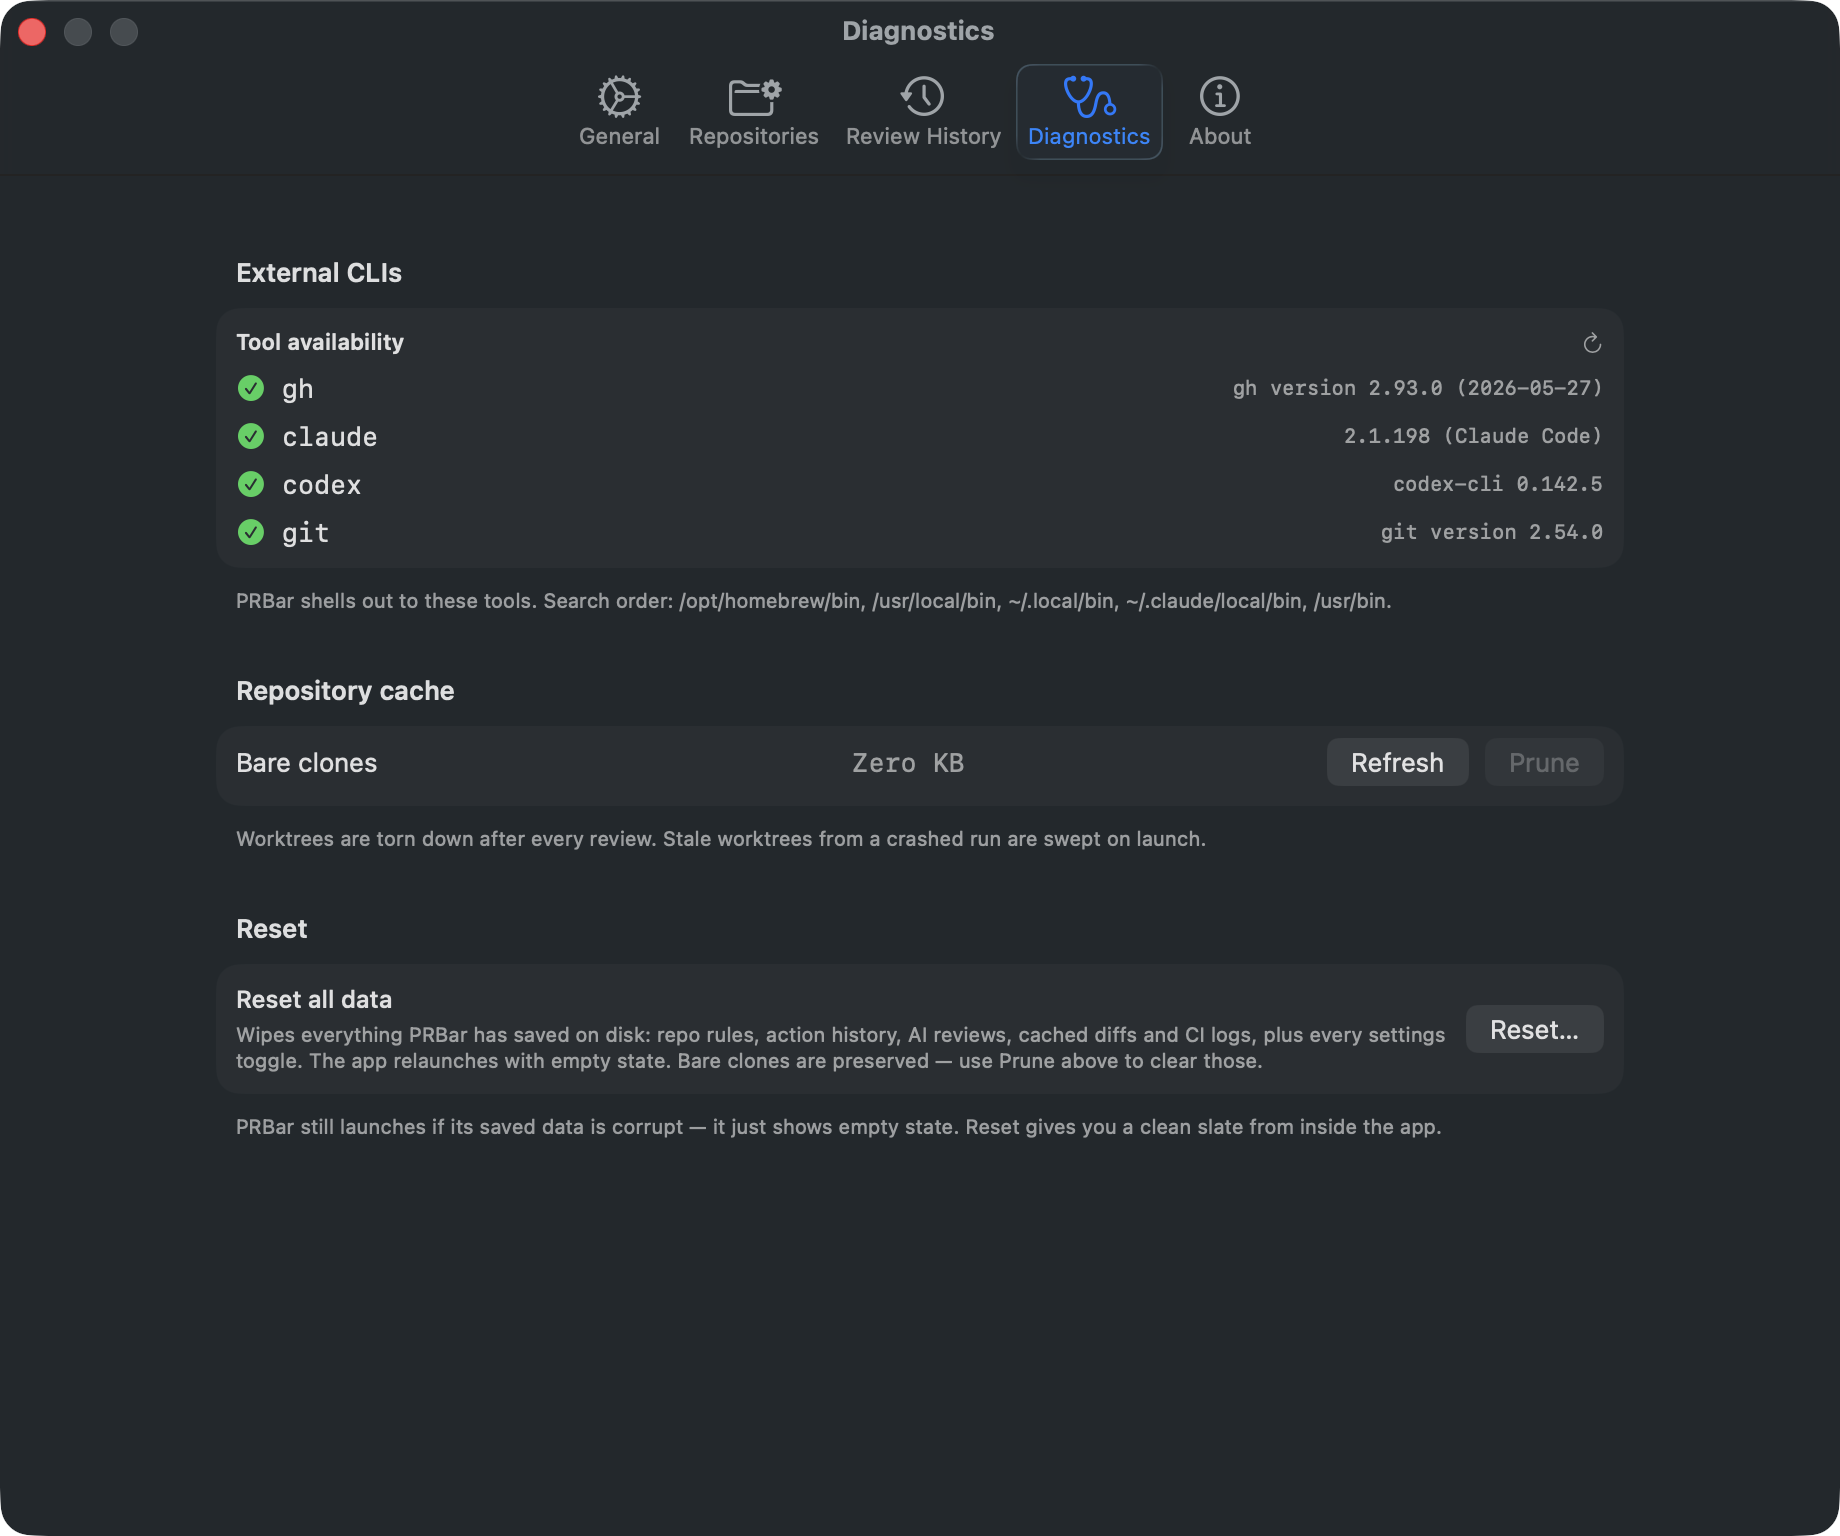
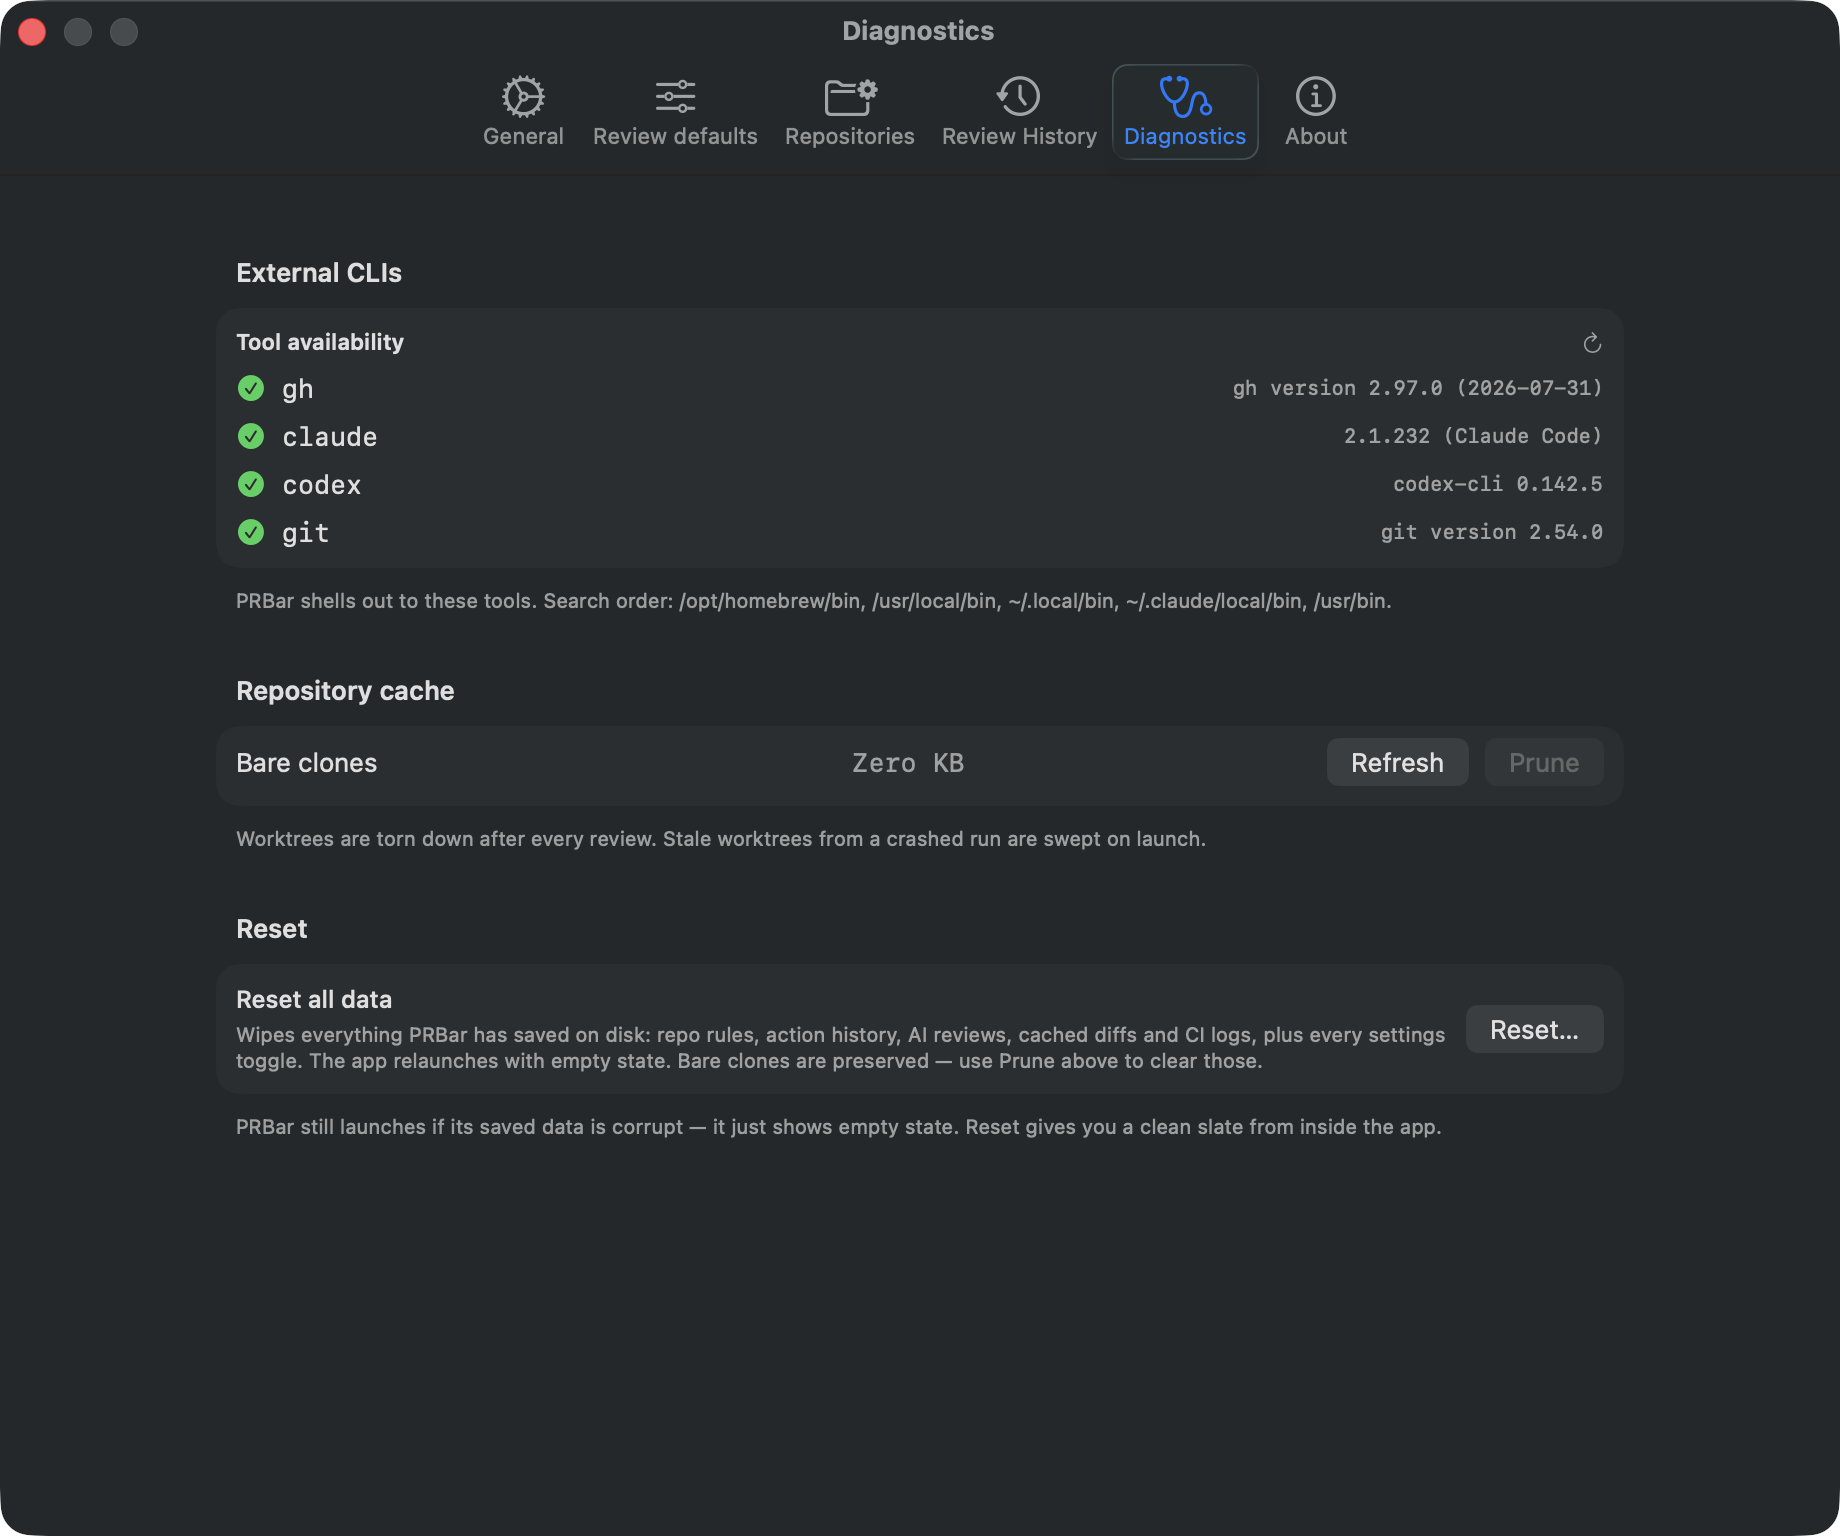
docs: regenerate settings screenshots for the new tab
Every settings shot picks up the Review defaults tab in its tab bar,
so all three existing ones are recaptured alongside it. Diagnostics
also now shows codex's real version instead of "(no --version)".

Captured at 2x (1840x1536) on the built-in Retina display.

Claude-Session: https://claude.ai/code/session_01Cv3H1G6RFnXFXdtMMGmoSa

Changed region(s): [[0.2478, 0.0312, 0.7435, 0.0938]]

diff --git a/README.md b/README.md
@@ -39,9 +39,11 @@ For long diffs and detailed review reading. Same content as the popover, full si
 
 ### Settings
 
-| General | Repositories | Diagnostics |
-|---|---|---|
-| ![General](docs/screenshots/settings-general.png) | ![Repositories](docs/screenshots/settings-repositories.png) | ![Diagnostics](docs/screenshots/settings-diagnostics.png) |
+| General | Review defaults | Repositories | Diagnostics |
+|---|---|---|---|
+| ![General](docs/screenshots/settings-general.png) | ![Review defaults](docs/screenshots/settings-review-defaults.png) | ![Repositories](docs/screenshots/settings-repositories.png) | ![Diagnostics](docs/screenshots/settings-diagnostics.png) |
+
+Review defaults set the app-level value of every review setting; a repo rule overrides only what it needs and inherits the rest.
 
 ## How it works
 
